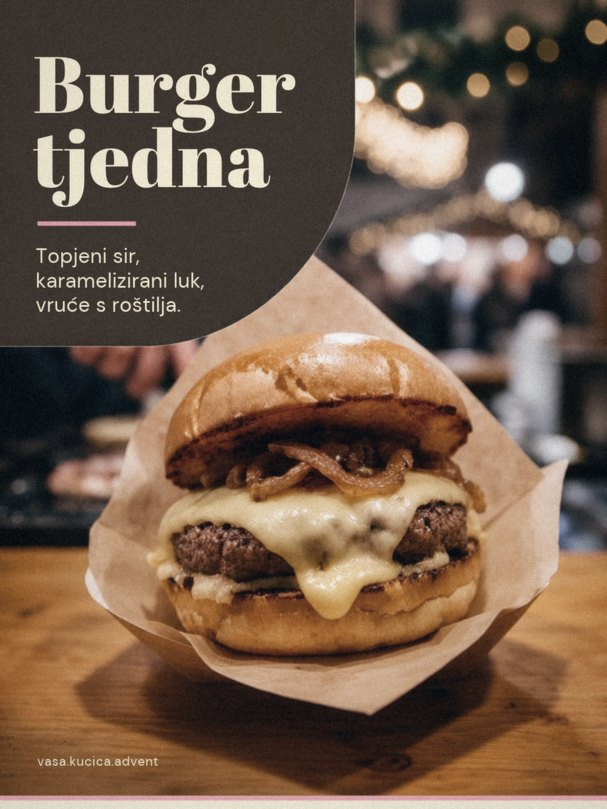
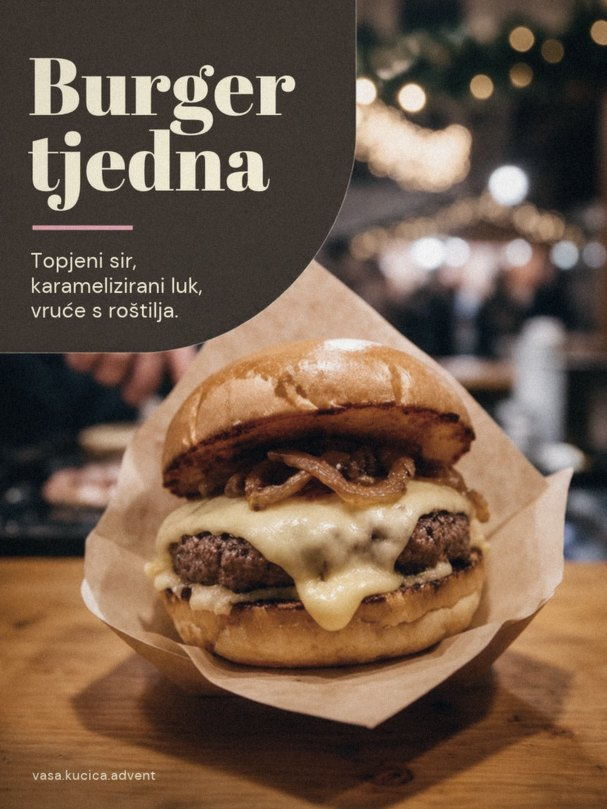
Plan objava: objava Burger tjedna bez svijetle trake na dnu
Claude-Session: https://claude.ai/code/session_0177j8xUZDtVsAa1LaaELAVF

diff --git a/index.html b/index.html
@@ -487,7 +487,7 @@ p{margin:0}
       <p class="label">Plan objava</p>
       <h2>Što ćemo objavljivati svaki tjedan?</h2>
     </div>
-    <div class="ticker post-ticker"><div class="ticker-track"><ul class="ticker-set" aria-label="Primjeri objava iz feeda"><li><img src="img/f-hit.jpg?v=375c14ac" alt="Primjer objave: Burger tjedna" loading="lazy" decoding="async"></li><li><img src="img/f-giveaway.jpg?v=c081bd69" alt="Primjer objave: Nagradna igra" loading="lazy" decoding="async"></li><li><img src="img/f-gdje.jpg?v=b7d7b082" alt="Primjer objave: Gdje smo?" loading="lazy" decoding="async"></li><li><img src="img/f-vecer.jpg?v=93d9f27b" alt="Primjer objave: Vidimo se večeras" loading="lazy" decoding="async"></li><li><img src="img/f-zagrij.jpg?v=cc3314ea" alt="Primjer objave: Zagrij se kod nas" loading="lazy" decoding="async"></li><li><img src="img/f-fritule.jpg?v=59b7058c" alt="Primjer objave: Fritule s čokoladom" loading="lazy" decoding="async"></li><li><img src="img/f-koncert.jpg?v=82e0db16" alt="Primjer objave: Večeras koncert!" loading="lazy" decoding="async"></li><li><img src="img/f-slatki.jpg?v=14cd8c91" alt="Primjer objave: Slatki kutak" loading="lazy" decoding="async"></li><li><img src="img/f-vibra.jpg?v=760b2651" alt="Primjer objave: Ekipa iza šanka" loading="lazy" decoding="async"></li></ul><ul class="ticker-set" aria-hidden="true"><li><img src="img/f-hit.jpg?v=375c14ac" alt="" loading="lazy" decoding="async"></li><li><img src="img/f-giveaway.jpg?v=c081bd69" alt="" loading="lazy" decoding="async"></li><li><img src="img/f-gdje.jpg?v=b7d7b082" alt="" loading="lazy" decoding="async"></li><li><img src="img/f-vecer.jpg?v=93d9f27b" alt="" loading="lazy" decoding="async"></li><li><img src="img/f-zagrij.jpg?v=cc3314ea" alt="" loading="lazy" decoding="async"></li><li><img src="img/f-fritule.jpg?v=59b7058c" alt="" loading="lazy" decoding="async"></li><li><img src="img/f-koncert.jpg?v=82e0db16" alt="" loading="lazy" decoding="async"></li><li><img src="img/f-slatki.jpg?v=14cd8c91" alt="" loading="lazy" decoding="async"></li><li><img src="img/f-vibra.jpg?v=760b2651" alt="" loading="lazy" decoding="async"></li></ul></div></div>
+    <div class="ticker post-ticker"><div class="ticker-track"><ul class="ticker-set" aria-label="Primjeri objava iz feeda"><li><img src="img/f-hit.jpg?v=a31c5800" alt="Primjer objave: Burger tjedna" loading="lazy" decoding="async"></li><li><img src="img/f-giveaway.jpg?v=c081bd69" alt="Primjer objave: Nagradna igra" loading="lazy" decoding="async"></li><li><img src="img/f-gdje.jpg?v=b7d7b082" alt="Primjer objave: Gdje smo?" loading="lazy" decoding="async"></li><li><img src="img/f-vecer.jpg?v=93d9f27b" alt="Primjer objave: Vidimo se večeras" loading="lazy" decoding="async"></li><li><img src="img/f-zagrij.jpg?v=cc3314ea" alt="Primjer objave: Zagrij se kod nas" loading="lazy" decoding="async"></li><li><img src="img/f-fritule.jpg?v=59b7058c" alt="Primjer objave: Fritule s čokoladom" loading="lazy" decoding="async"></li><li><img src="img/f-koncert.jpg?v=82e0db16" alt="Primjer objave: Večeras koncert!" loading="lazy" decoding="async"></li><li><img src="img/f-slatki.jpg?v=14cd8c91" alt="Primjer objave: Slatki kutak" loading="lazy" decoding="async"></li><li><img src="img/f-vibra.jpg?v=760b2651" alt="Primjer objave: Ekipa iza šanka" loading="lazy" decoding="async"></li></ul><ul class="ticker-set" aria-hidden="true"><li><img src="img/f-hit.jpg?v=a31c5800" alt="" loading="lazy" decoding="async"></li><li><img src="img/f-giveaway.jpg?v=c081bd69" alt="" loading="lazy" decoding="async"></li><li><img src="img/f-gdje.jpg?v=b7d7b082" alt="" loading="lazy" decoding="async"></li><li><img src="img/f-vecer.jpg?v=93d9f27b" alt="" loading="lazy" decoding="async"></li><li><img src="img/f-zagrij.jpg?v=cc3314ea" alt="" loading="lazy" decoding="async"></li><li><img src="img/f-fritule.jpg?v=59b7058c" alt="" loading="lazy" decoding="async"></li><li><img src="img/f-koncert.jpg?v=82e0db16" alt="" loading="lazy" decoding="async"></li><li><img src="img/f-slatki.jpg?v=14cd8c91" alt="" loading="lazy" decoding="async"></li><li><img src="img/f-vibra.jpg?v=760b2651" alt="" loading="lazy" decoding="async"></li></ul></div></div>
     <ul class="items pillars">
       <li><div><span class="tag">Hit</span><h3>Specijalitet kućice</h3><p>Predstavljanje vašeg glavnog aduta (burger, kobasica, fritule, autorski koktel) – zašto probati baš vaš.</p></div></li>
       <li><div><span class="tag t-sky">Koncert</span><h3>Koncertni specijali</h3><p>Ciljane objave na dane velikih nastupa, npr. „Akcija na kuhano vino do 21 h prije koncerta”.</p></div></li>
